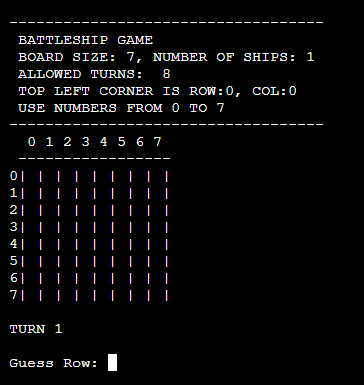
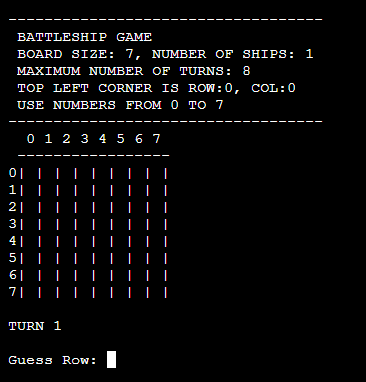
replaced the game intro readme snip and added content to the readme

diff --git a/README.md b/README.md
@@ -18,9 +18,14 @@ If a player misses the turn it will mark the spot with **'O'** and continue turn
 
 ## Features
 
+**Existing Features**
 
+![Footer](https://github.com/anluke/battleship-game/blob/main/assets/images/readme_snips/game_start_intro.png?raw=true)
 
-Connect your GitHub repository and deploy as normal.
+  - Battleship board generates from the start and the computer places a ship at the random location.
+  - The player cannot see where the computer's ship is.
+  - The game also starts with a **Turn** counter. The game will have maximum of 8 Turns. It is also displayed in the game intro.
+  - The player cannot see where the computer's ship is.
 
 ## Testing
 
